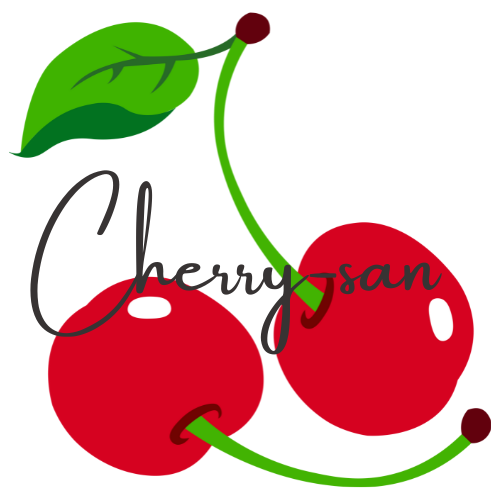
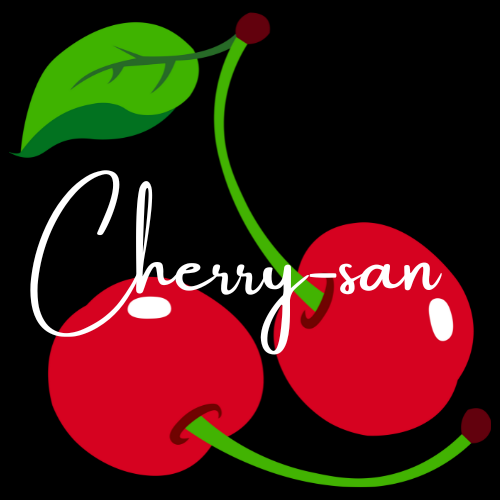
background-color = black

diff --git a/Pages/anime.html b/Pages/anime.html
@@ -86,11 +86,11 @@
 
     <div class="card">
         <h2>Les classiques </h2>
-        <h2>Le classique par excellence</h2>
+        <h3>Le classique par excellence (note : &#x2B50 &#x2B50 &#x2B50 &#x2B50 &#x2B50 )</h3>
         <div class="flex-container">
             <img src="https://fr.web.img2.acsta.net/pictures/19/08/02/15/12/4423178.jpg" class="card-image">
             <div>
-                <h2> Naruto</h2>
+                <h3> Naruto</h3>
                 <p>
                     Dans le village de Konoha vit Naruto, un jeune garçon détesté et craint des villageois du fait qu'il
                     détienne en lui Kyuubi (démon renard à neuf queues) d'une incroyable force, qui a tué un grand
@@ -110,46 +110,56 @@
             <div class="flex-container">
                 <div>
                     <img class="flex-image" src="https://fr.web.img5.acsta.net/pictures/19/08/09/14/53/1842996.jpg">
+                    <hr>
                     One piece
                 </div>
                 <div>
                     <img class="flex-image" src="https://fr.web.img4.acsta.net/pictures/19/08/05/16/55/2130716.jpg">
+                    <hr>
                     Naruto shippuden
                 </div>
                 <div>
                     <img class="flex-image" src="https://fr.web.img6.acsta.net/pictures/19/09/18/13/46/0198270.jpg">
+                    <hr>
                     Demon slayer
                 </div>
                 <div>
                     <img class="flex-image" src="https://fr.web.img5.acsta.net/pictures/19/08/01/09/52/4803203.jpg">
+                    <hr>
                     Hunter x Hunter
                 </div>
                 <div>
                     <img class="flex-image"
                         src="https://www.nautiljon.com/images/anime/00/50/nanatsu_no_taizai_3605.webp">
+                    <hr>
                     Nanatsu no taizai
                 </div>
                 <div>
                     <img class="flex-image" src="https://fr.web.img5.acsta.net/pictures/18/01/18/14/35/2024405.jpg">
+                    <hr>
                     Death note
                 </div>
                 <div>
                     <img class="flex-image"
                         src="https://cdn.cultura.com/cdn-cgi/image/width=768/media/pim/TITELIVE/25_9782344030257_1_75.jpg">
+                    <hr>
                     Mon voisin totoro
                 </div>
                 <div>
                     <img class="flex-image" src="https://m.media-amazon.com/images/I/719QuSqLbQL._AC_SL1500_.jpg">
+                    <hr>
                     A silent voice
                 </div>
                 <div>
                     <img class="flex-image"
                         src="https://www.crunchyroll.com/imgsrv/display/thumbnail/480x720/catalog/crunchyroll/dd3f02603f8c7bedcc8962b6a6fb392e.jpeg">
+                    <hr>
                     Assasination classroom
                 </div>
                 <div>
                     <img class="flex-image"
                         src="https://cdn.myanimelist.net/images/about_me/ranking_items/9813430-ed832ec8-f93a-40c8-a52a-958abf4b9d80.jpg?t=1667148050">
+                    <hr>
                     5 cm per second
                 </div>
             </div>
@@ -162,48 +172,60 @@
             <div class="flex-container">
                 <div>
                     <img class="flex-image" src="https://fr.web.img5.acsta.net/pictures/19/08/07/10/33/5476043.jpg">
+                    <hr>
                     Dr stone
                 </div>
                 <div>
                     <img class="flex-image" src="https://fr.web.img5.acsta.net/pictures/19/07/08/14/28/2218608.jpg">
+                    <hr>
                     Violet Evergarden
                 </div>
                 <div>
                     <img class="flex-image" src="https://fr.web.img6.acsta.net/pictures/22/03/07/15/31/0476721.jpg">
+                    <hr>
                     Kotaro en solo
                 </div>
                 <div>
                     <img class="flex-image" src="https://fr.web.img6.acsta.net/pictures/21/04/29/11/02/3307360.jpg">
+                    <hr>
                     Yasuke
                 </div>
                 <div>
                     <img class="flex-image"
                         src="https://www.manga-news.com/public/images/series/voie-tablier-1-kana.jpg">
+                    <hr>
                     La voie du tablier
                 </div>
                 <div>
                     <img class="flex-image" src="https://www.nautiljon.com/images/anime/00/02/ousama_ranking_9220.webp">
+                    <hr>
+                    <hr>
                     Ranking of kings
                 </div>
                 <div>
                     <img class="flex-image" src="https://m.media-amazon.com/images/I/711ar--30zL.jpg">
+                    <hr>
                     Les mémoires de Vanitas
                 </div>
                 <div>
                     <img class="flex-image" src="https://fr.web.img6.acsta.net/pictures/20/03/04/12/47/5148843.jpg">
+                    <hr>
                     Made in abyss
                 </div>
                 <div>
                     <img class="flex-image" src="https://flxt.tmsimg.com/assets/p23133871_b_v13_aa.jpg">
+                    <hr>
                     The owl house
                 </div>
                 <div>
                     <img class="flex-image" src="https://m.media-amazon.com/images/I/91la09j4ELL.jpg">
+                    <hr>
                     Juni taisen
                 </div>
                 <div>
                     <img class="flex-image"
                         src="https://www.crunchyroll.com/imgsrv/display/thumbnail/480x720/catalog/crunchyroll/935ad8e1c044f1164c2af8e18042c2e6.jpeg">
+                    <hr>
                     Tower of god
                 </div>
             </div>

diff --git a/styles.css b/styles.css
@@ -12,7 +12,8 @@
 }
 
 body {
-  color: black;
+  color: white;
+  background-color: black;
   font-size: 1em;
   margin-left: 10%;
   margin-right: 10%;
@@ -36,7 +37,7 @@ ul.menu {
   margin: 0;
   padding: 0;
   overflow: hidden;
-  background-color: white;
+  background-color: black;
   border-bottom: 5px solid #c50000;
 }
 
@@ -63,6 +64,7 @@ ul.menu {
 #cheer {
   display: block;
   width: 30%;
+  margin: auto;
 }
 
 /*Cick button for card*/
@@ -92,7 +94,7 @@ a.button:focus {
   padding: 1rem;
   margin: 1rem;
   display: block;
-  background-color: whitesmoke;
+  background-color: rgba(0, 0, 0, 0.686);
 }
 
 .card-image {
@@ -162,6 +164,15 @@ table,
 th,
 tr {
   text-align: left;
-  border: 1px solid black;
+  border: 1px solid white;
   font-weight: lighter;
+}
+
+h2::after {
+  background-color: white;
+  content: '';
+  display: block;
+  height: 1px;
+  width: auto;
+  margin-bottom: 2px;
 }
